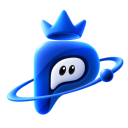
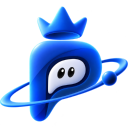
The Founder mark was cut, and small for no reason.
Two separate faults that read as one.

The crest crop was a guess - 760 pixels from an offset I picked by eye - and it
sliced the orbital ring in half. A mark with a severed edge does not read as a
crop, it reads as a rendering fault. MYTHIC PIONEER needs a crest crop because
its wreath and banner become smudges at twenty-four pixels; this one is a
crown, a P and a ring, and all three survive whole. So it has no separate crop
at all now, just smaller files.

The second is why it looked small beside MYTHIC PIONEER in the same box: the
supplied artwork carries about a tenth of its width as empty margin, and
`object-contain` honours margin. Trimmed to its own ink - measured off the
alpha channel, not guessed - the mark fills the frame it is given.

The inline mark goes from 16px to 20px while I am here. At sixteen it sat below
the cap height of the name it follows and read as a speck; twenty is the line
height of `text-body`, so nothing reflows.

Claude-Session: https://claude.ai/code/session_01G4tQ7uUiNyNeGyXughD3Qx

Changed region(s): [[0.0, 0.0312, 1.0, 0.9688]]

diff --git a/apps/web/src/features/achievements/AchievementArt.tsx b/apps/web/src/features/achievements/AchievementArt.tsx
@@ -46,7 +46,15 @@ export interface AchievementArtProps {
 }
 
 const BOX = {
-  mark: 'size-4',
+  /*
+   * 20px, up from 16.
+   *
+   * At sixteen the mark sat below the cap height of the name it follows and
+   * read as a speck rather than as something earned - and a badge whose whole
+   * job is to be noticed beside a name should at least match the line it is on.
+   * Twenty is the line height of `text-body`, so nothing reflows.
+   */
+  mark: 'size-5',
   small: 'size-9',
   medium: 'size-20',
   large: 'size-40 sm:size-56',
